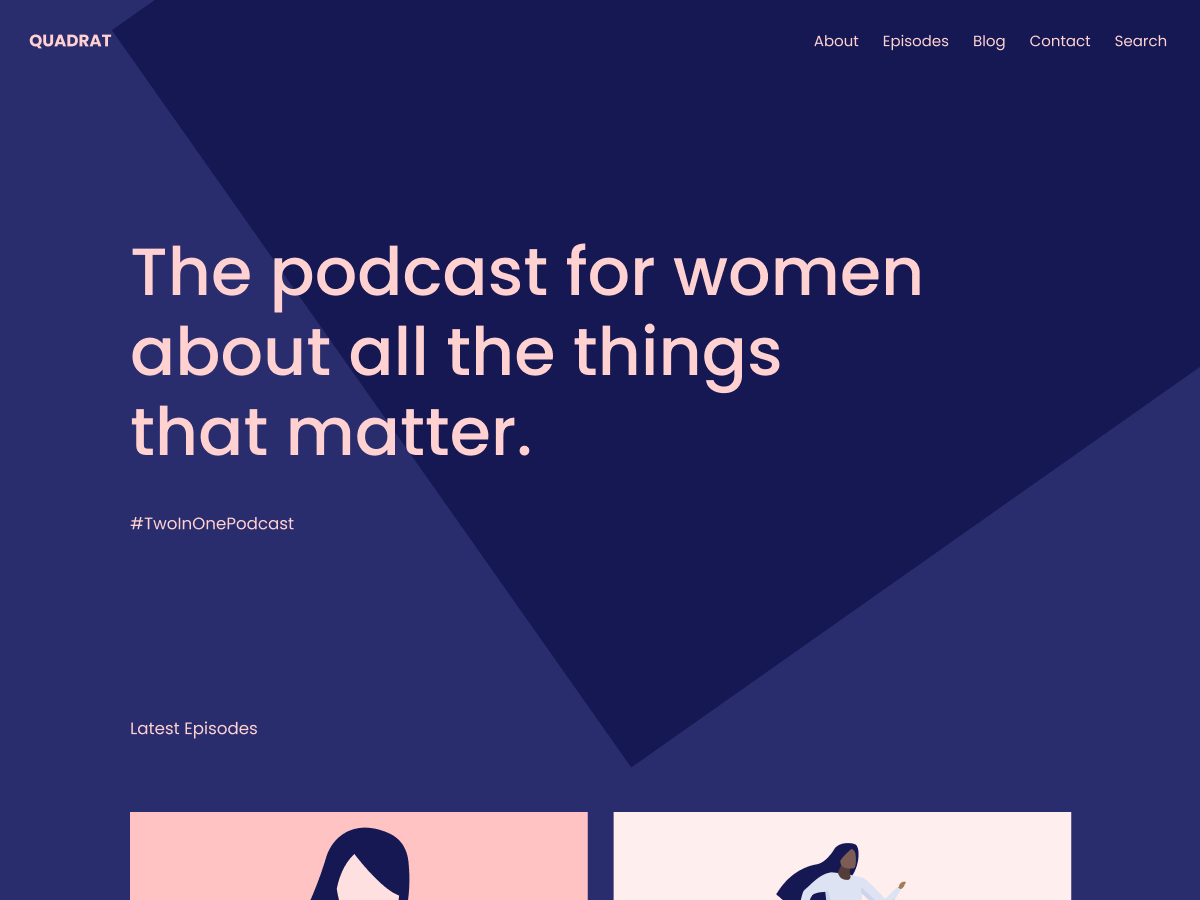
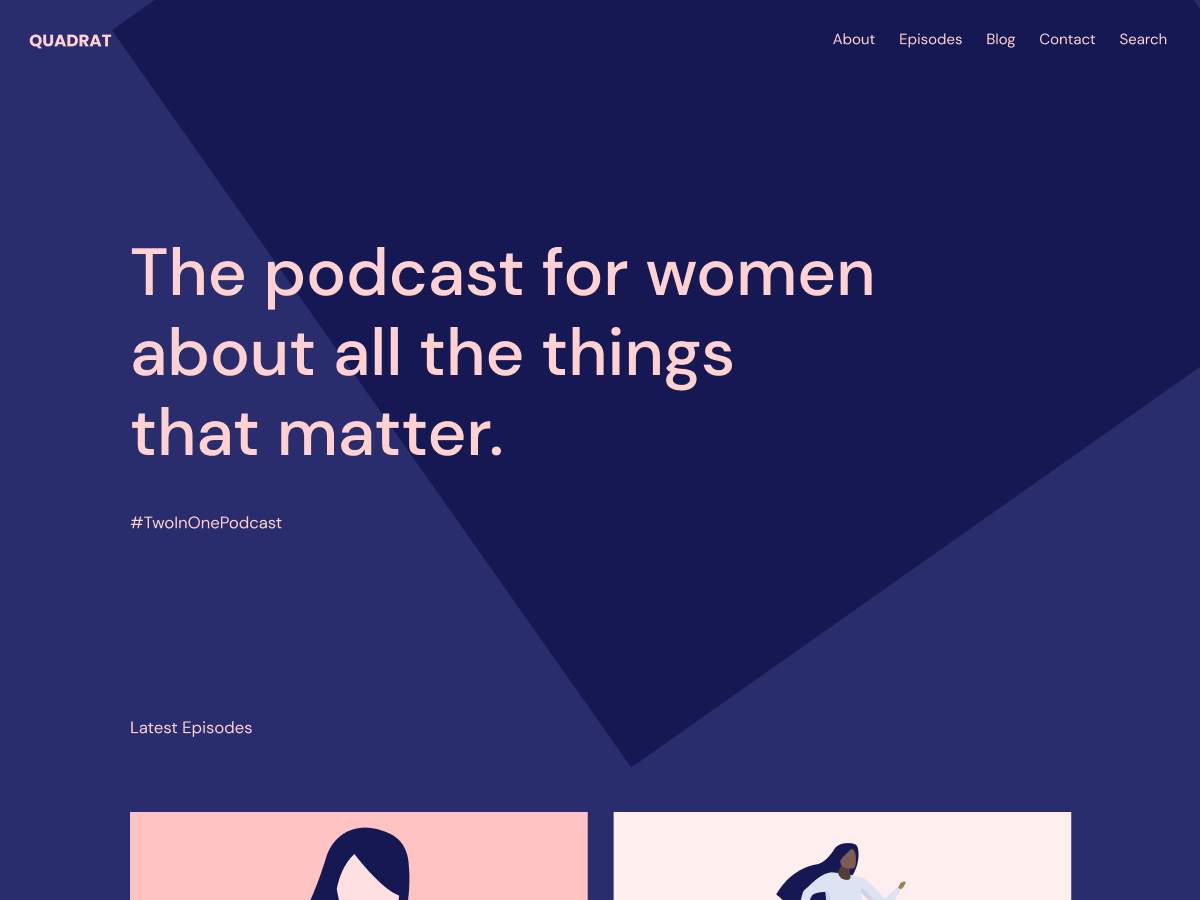
Replace Poppins font with DM Sans (#3869)
* Replace Poppins font with DM Sans

* Update child-experimental-theme.json and recompile.

* Update screenshot.png

diff --git a/quadrat/sass/blocks/_table.scss b/quadrat/sass/blocks/_table.scss
@@ -1,6 +1,6 @@
 .wp-block-table {
 	th {
-		font-weight: 500;
+		font-weight: 400;
 	}
 
 	tbody td { // tbody adds the specificity needed to override the default Gutenberg styles

diff --git a/quadrat/assets/theme.css b/quadrat/assets/theme.css
@@ -267,7 +267,7 @@ ul ul {
 }
 
 .wp-block-table th {
-	font-weight: 500;
+	font-weight: 400;
 }
 
 .wp-block-table tbody td {
